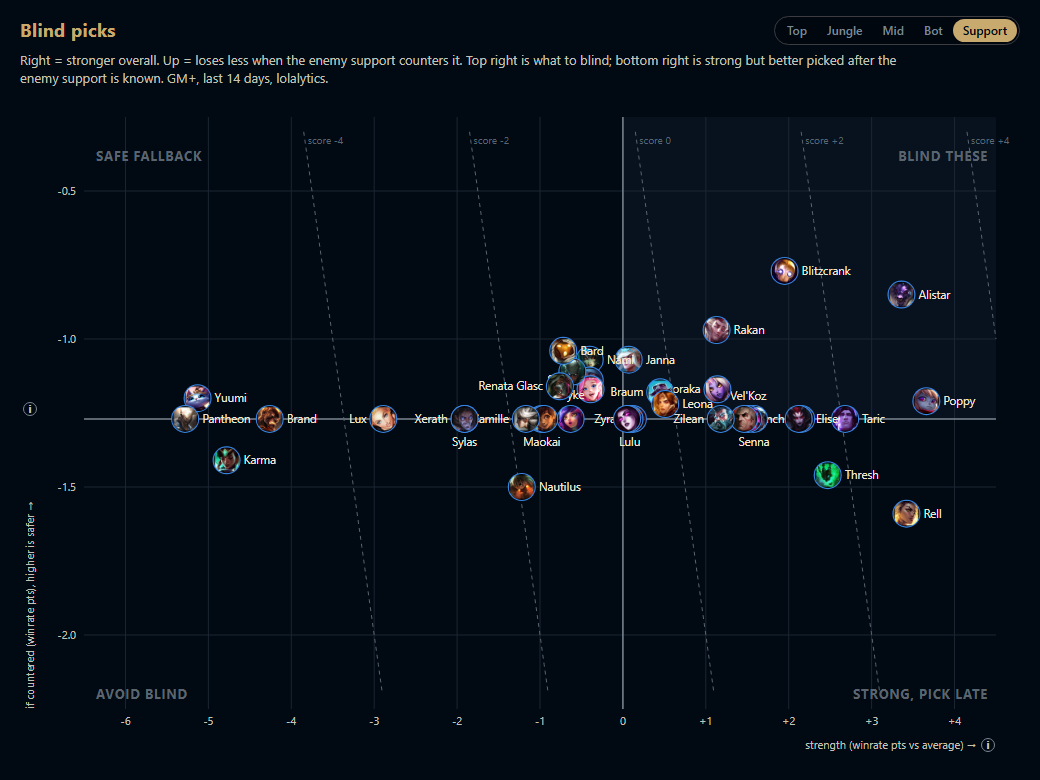
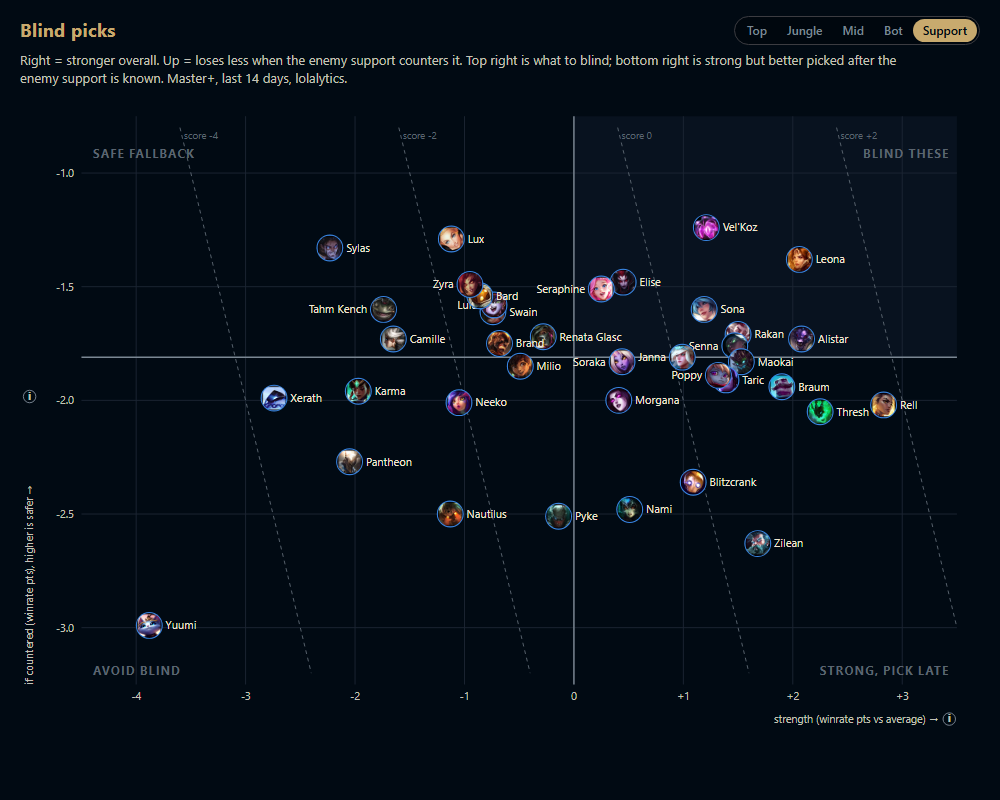
Master+ stats only, fix frozen explorer/settings windows, best-players prototype
- Drop GM+ and Challenger: every view uses Master+ (more matchup data).
  README screenshot regenerated at Master+.
- Explorer and settings windows froze: their js_api objects held the
  pywebview window as a public attribute, so pywebview walked WebView2's
  internals. The attribute is now private.
- data/leaderboard.py: top players on a champion from lolalytics'
  leaderboard page, with op.gg links. `uv run python -m data.leaderboard`
  lists them for your most played champions.

diff --git a/panel/explore.js b/panel/explore.js
@@ -2,7 +2,7 @@
 (function(){
   var NS="http://www.w3.org/2000/svg",$=function(id){return document.getElementById(id)};
   var ROLE={top:"Top",jungle:"Jungle",middle:"Mid",bottom:"Bot",support:"Support"};
-  var state={role:"support",tier:"grandmaster_plus",data:null};
+  var state={role:"support",tier:"master_plus",data:null};
   var f=function(v,d){d=d==null?1:d;return(v>0?"+":"")+Number(v).toFixed(d)};
   var esc=function(s){return String(s).replace(/[&<>"]/g,function(c){return{"&":"&amp;","<":"&lt;",">":"&gt;",'"':"&quot;"}[c]})};
 

diff --git a/data/leaderboard.py b/data/leaderboard.py
@@ -1,0 +1,102 @@
+"""Best players on a champion, from lolalytics' leaderboard page (lolalytics.com/lol/<slug>/leaderboard/).
+
+The page is server-rendered HTML, one row per player: rank, tier, Riot ID, region, win rate, games,
+and a link to the player's xdx.gg profile. No JSON endpoint is known, so the rows are scraped; if
+lolalytics changes its markup this returns [] rather than guessing.
+
+Prototype: `uv run python -m data.leaderboard` lists the top players on your most played champions
+(from your stored games), or `... --champ rell --champ lulu` for any champions.
+"""
+from __future__ import annotations
+
+import argparse
+import html
+import re
+from dataclasses import dataclass
+from urllib.parse import quote
+
+from data.fetch import Fetcher
+
+URL = "https://lolalytics.com/lol/{slug}/leaderboard/"
+ROW = re.compile(r'<div class="flex h-\[52px\] justify-between[^"]*"[^>]*>')
+TIERS = {"CH": "Challenger", "GM": "Grandmaster", "M": "Master", "D": "Diamond"}
+# lolalytics region -> op.gg region (same short codes on both, listed so unknown ones are skipped)
+OPGG = {"na", "euw", "eune", "kr", "jp", "br", "lan", "las", "oce", "tr", "ru", "vn", "tw", "sg", "ph", "th", "me"}
+
+
+@dataclass
+class Player:
+    rank: int
+    tier: str      # "CH", "GM", ...
+    riot_id: str   # "Name#TAG"
+    region: str    # "euw"
+    wr: float      # %
+    games: int
+    profile: str = ""  # xdx.gg link from the page
+
+    @property
+    def opgg(self) -> str:
+        if self.region not in OPGG or "#" not in self.riot_id:
+            return ""
+        name, tag = self.riot_id.rsplit("#", 1)
+        return f"https://op.gg/lol/summoners/{self.region}/{quote(name)}-{quote(tag)}"
+
+
+def _cells(row: str) -> list[str]:
+    return [t for t in (html.unescape(c).strip() for c in re.findall(r">([^<>]+)<", row)) if t]
+
+
+def parse(page: str) -> list[Player]:
+    """Leaderboard rows from the page HTML, best first. Rows that don't look right are skipped."""
+    starts = [m.start() for m in ROW.finditer(page)] + [len(page)]
+    out = []
+    for a, b in zip(starts, starts[1:]):
+        row = page[a:b]
+        c = _cells(row)
+        link = re.search(r'<a href="([^"]+)"', row)
+        try:
+            rank, tier, rid, region, wr, games = c[0], c[1], c[2], c[3], c[4], c[5]
+            out.append(Player(int(rank), tier, rid, region.lower(), float(wr.rstrip("%")), int(games),
+                              link.group(1) if link else ""))
+        except (IndexError, ValueError):
+            continue
+    return out
+
+
+def top_players(slug: str, fetcher: Fetcher | None = None, n: int = 10) -> list[Player]:
+    fetcher = fetcher or Fetcher()
+    return parse(fetcher.get(URL.format(slug=slug)).text)[:n]
+
+
+def main() -> None:
+    ap = argparse.ArgumentParser(description="Top players on your best champions (lolalytics leaderboard)")
+    ap.add_argument("--champ", action="append", help="champion slug, e.g. rell (repeatable)")
+    ap.add_argument("--top", type=int, default=3, help="how many of your champions (default 3)")
+    ap.add_argument("-n", type=int, default=5, help="players per champion (default 5)")
+    ap.add_argument("--min-games", type=int, default=5, help="your games needed to count a champion")
+    args = ap.parse_args()
+
+    from data.champions import Champions
+    champs = Champions.load()
+    if args.champ:
+        picks = [(s, "") for s in args.champ]
+    else:
+        from data.store import Store
+        rec = Store().champ_record()
+        best = sorted(((g, w, c) for c, (g, w, _, _) in rec.items() if g >= args.min_games), reverse=True)
+        picks = [(champs.slug(c), f"you: {g} games, {100 * w / g:.0f}% WR") for g, w, c in best[: args.top]]
+        if not picks:
+            print("No stored games yet: pass --champ <slug>.")
+            return
+    fetcher = Fetcher()
+    for slug, you in picks:
+        print(f"\n{slug}  {you}".rstrip())
+        players = top_players(slug, fetcher, args.n)
+        if not players:
+            print("  (no leaderboard rows found)")
+        for p in players:
+            print(f"  {p.rank:>2}. {p.tier:<2} {p.riot_id:<28} {p.region:<4} {p.wr:5.1f}% {p.games:>4} games  {p.opgg}")
+
+
+if __name__ == "__main__":
+    main()

diff --git a/tests/test_blind_report.py b/tests/test_blind_report.py
@@ -37,14 +37,14 @@ def test_role_report_ranks_safe_over_risky_at_equal_strength():
 def test_explore_api_validates_and_reports_errors():
     def boom(role, tier):
         raise TimeoutError
-    api = ExploreApi(lambda r, t: {"role": r, "champs": []}, lambda: "grandmaster_plus", lambda: "middle")
+    api = ExploreApi(lambda r, t: {"role": r, "champs": []}, lambda: "master_plus", lambda: "middle")
     assert api.start()["role"] == "middle"
-    assert [x["id"] for x in api.start()["tiers"]] == ["grandmaster_plus"]
-    assert ExploreApi(boom, lambda: "grandmaster_plus").start()["role"] == "support"
-    assert "error" in api.get("mid", "grandmaster_plus")
-    assert "error" in api.get("top", "master_plus")  # dropped tier
-    assert api.get("top", "grandmaster_plus")["tier_label"] == "GM+"
-    assert "TimeoutError" in ExploreApi(boom, lambda: "grandmaster_plus").get("top", "grandmaster_plus")["error"]
+    assert [x["id"] for x in api.start()["tiers"]] == ["master_plus"]
+    assert ExploreApi(boom, lambda: "master_plus").start()["role"] == "support"
+    assert "error" in api.get("mid", "master_plus")
+    assert "error" in api.get("top", "grandmaster_plus")  # dropped tier
+    assert api.get("top", "master_plus")["tier_label"] == "Master+"
+    assert "TimeoutError" in ExploreApi(boom, lambda: "master_plus").get("top", "master_plus")["error"]
 
 
 def test_no_matchup_data_is_not_safe():

diff --git a/app.py b/app.py
@@ -139,7 +139,7 @@ class App:
                 SETTINGS_TITLE, url=str(RESOURCES / "panel" / "settings.html"), js_api=api,
                 width=480, height=480, min_size=(420, 360), resizable=True, background_color="#010a13",
             )
-            api.window = win
+            api._window = win
             win.events.closed += lambda: setattr(self, "settings_window", None)
             self.settings_window = win
 
@@ -166,12 +166,12 @@ class App:
                 ev = self.ctl.last_eval
                 return ev.role if ev else self.ctl.last_role or None
 
-            api = explore_ui.ExploreApi(report, lambda: self.ctl.rec.tier if self.ctl.rec else "grandmaster_plus", main_role)
+            api = explore_ui.ExploreApi(report, lambda: self.ctl.rec.tier if self.ctl.rec else "master_plus", main_role)
             win = webview.create_window(
                 EXPLORE_TITLE, url=str(RESOURCES / "panel" / "explore.html"), js_api=api,
                 width=1000, height=820, min_size=(760, 520), resizable=True, background_color="#010a13",
             )
-            api.window = win
+            api._window = win
             win.events.closed += lambda: setattr(self, "explore_window", None)
             self.explore_window = win
 

diff --git a/tests/test_leaderboard.py b/tests/test_leaderboard.py
@@ -1,0 +1,19 @@
+from data.leaderboard import parse
+
+ROW = ('<div class="flex h-[52px] justify-between text-[13px]" q:key="0_{i}">'
+       '<div class="flex w-[50px]">{i}</div><div><img alt="challenger"><div class="t">CH</div></div>'
+       '<div class="flex w-[150px]"><a href="https://xdx.gg/x">{name}</a></div><div>euw</div>'
+       '<div>60.00%</div><div>70</div><div>x 70</div></div>')
+
+
+def test_parse_rows_and_opgg_link():
+    page = "<div>Rank</div>" + ROW.format(i=1, name="Some One#EUW") + ROW.format(i=2, name="A&amp;B#1")
+    a, b = parse(page)
+    assert (a.rank, a.tier, a.riot_id, a.region, a.wr, a.games) == (1, "CH", "Some One#EUW", "euw", 60.0, 70)
+    assert a.profile == "https://xdx.gg/x"
+    assert a.opgg == "https://op.gg/lol/summoners/euw/Some%20One-EUW"
+    assert b.riot_id == "A&B#1"
+
+
+def test_parse_skips_unknown_markup():
+    assert parse("<html>changed layout</html>") == []

diff --git a/desktop/explore_ui.py b/desktop/explore_ui.py
@@ -17,7 +17,7 @@ class ExploreApi:
     def __init__(self, report: Callable[[str, str], dict], tier: Callable[[], str],
                  role: Callable[[], str | None] = lambda: None):
         self._report, self._tier, self._role = report, tier, role
-        self.window = None  # set by the app once the window exists
+        self._window = None  # set by the app; private so pywebview doesn't walk it into the page
 
     def start(self) -> dict:
         """What to show first: your most played role (else support) at the panel's tier."""
@@ -35,5 +35,5 @@ class ExploreApi:
             return {"error": f"Couldn't load stats ({type(e).__name__}). Try again in a moment."}
 
     def close(self) -> None:
-        if self.window:
-            self.window.destroy()
+        if self._window:
+            self._window.destroy()

diff --git a/desktop/settings_ui.py b/desktop/settings_ui.py
@@ -113,7 +113,7 @@ class SettingsApi:
     def __init__(self, path: Path | str, on_saved: Callable[[Config], None] | None = None,
                  version: Callable[[], str] = lambda: "dev"):
         self._path, self._on_saved, self._version = Path(path), on_saved, version
-        self.window = None  # set by the app once the window exists
+        self._window = None  # set by the app; private so pywebview doesn't walk it into the page
 
     def get(self) -> dict:
         return {"values": read_values(self._path), "defaults": defaults(), "version": self._version()}
@@ -131,5 +131,5 @@ class SettingsApi:
         os.startfile(self._path)
 
     def close(self) -> None:
-        if self.window:
-            self.window.destroy()
+        if self._window:
+            self._window.destroy()

diff --git a/draft/views.py b/draft/views.py
@@ -11,7 +11,7 @@ from draft.engine import BanEvaluation, BuildEvaluation, Evaluation
 from draft.scoring import LANES, DraftOdds, OddsTerm
 from draft.state import Stage
 
-TIERS = {"grandmaster_plus": "GM+"}  # the only tier offered (Master+ and Challenger were dropped)
+TIERS = {"master_plus": "Master+"}  # the only tier offered (GM+ and Challenger were dropped)
 LOW_DATA = 0.25  # below this share of possible matchups found, warn that the tier is thin
 FLEX = 10.0  # an enemy whose second most played lane is at least this % is marked as a flex pick
 STAGE_MESSAGES = {

diff --git a/tests/test_settings_ui.py b/tests/test_settings_ui.py
@@ -37,7 +37,7 @@ def test_untouched_keys_survive(cfg_path):
     su.save(su.read_values(cfg_path) | {"comfort_only": True}, cfg_path)
     raw = tomllib.loads(cfg_path.read_text(encoding="utf-8"))
     assert raw["weights"]["support"]["base"] == 2.0
-    assert raw["comfort_only"] is True and raw["tier"] == "grandmaster_plus"
+    assert raw["comfort_only"] is True and raw["tier"] == "master_plus"
 
 
 def test_comfort_table_created_only_when_needed(cfg_path):

diff --git a/config.py b/config.py
@@ -50,7 +50,7 @@ DEFAULT_BUILD_WEIGHTS = {
 @dataclass
 class Config:
     min_pick_rate: float = 1.0  # % of games in the role; who counts as a candidate
-    tier: str = "grandmaster_plus"
+    tier: str = "master_plus"
     days: int = 14
     queue: str = "ranked"
     region: str = "all"

diff --git a/README.md b/README.md
@@ -49,7 +49,7 @@ under `[blind]`.
 - **Before champ select** stats preload in the background for your usual roles (your lobby roles once you queue).
 
 - **Picks** start at the first locked pick. Hover a pick to see every term behind its score.
-- **Rank tier**: stats are from GM+ games.
+- **Rank tier**: stats are from Master+ games.
 - **Enemy lanes** are guessed from play rates; flex picks get a gold dot. Click an enemy to set their lane.
 - **Build:** each option shows its Δ: how much better it does against these enemies than usual, in win-rate points, discounted for small samples. Bot lane is measured vs the enemy duo, top/mid vs their laner, jungler (and mid vs the roaming support), jungle vs everyone. The best is tagged **BEST VS LANE**. Hover for each enemy's share.
 - **Their damage** (build view and in game): the enemy team's split of physical, magic and true damage, from each enemy's average damage to champions in its lane. Hover for each enemy's own split.
